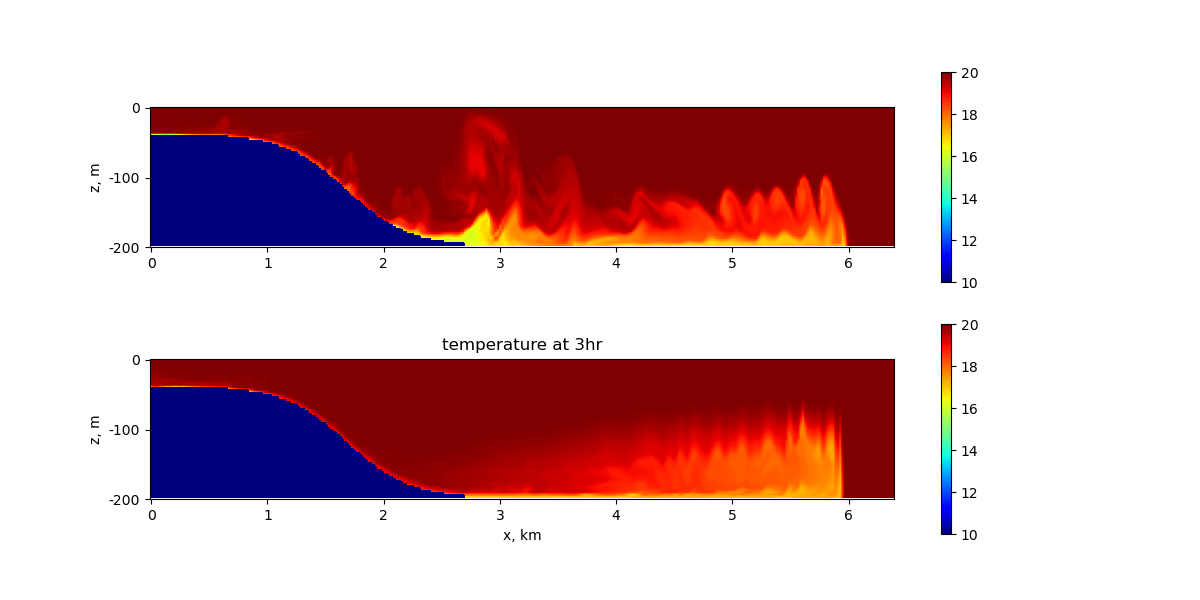
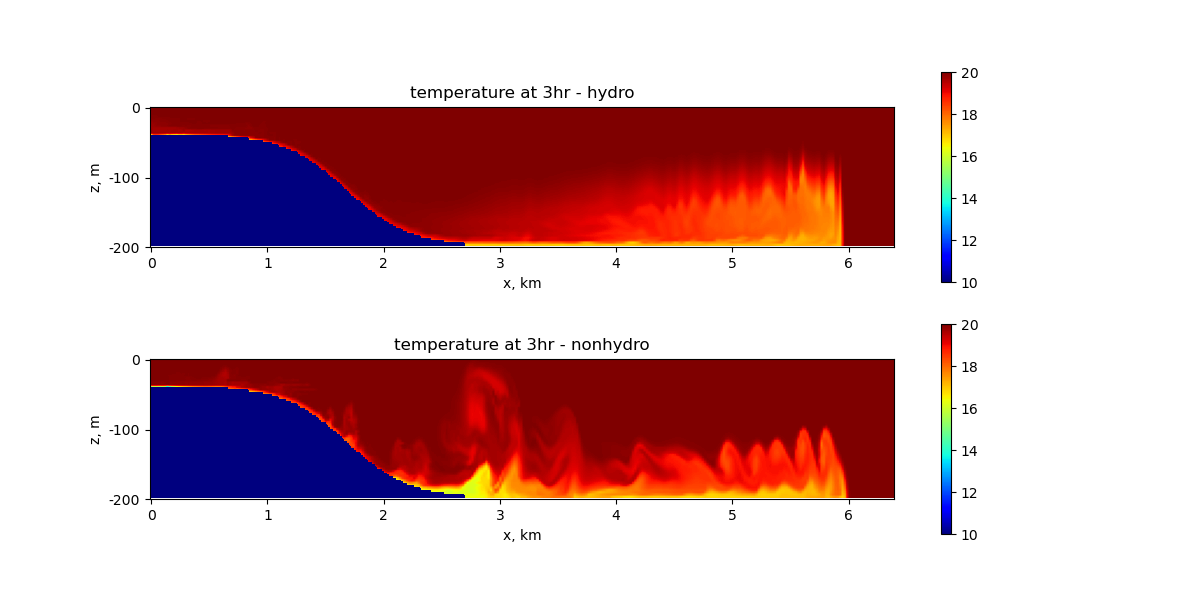
changed pic

diff --git a/compass/ocean/tests/overflow/hydro_vs_nonhydro/visualize.py b/compass/ocean/tests/overflow/hydro_vs_nonhydro/visualize.py
@@ -60,7 +60,7 @@ class Visualize(Step):
             plt.yticks([0, 30, 60], [0, -100, -200])
             plt.xlabel('x, km')
             plt.ylabel('z, m')
-            plt.title('temperature at 3hr - ', grid)
+            plt.title(f'temperature at 3hr - {grid}')
             ncfileIC.close()
             ncfile.close()
 
